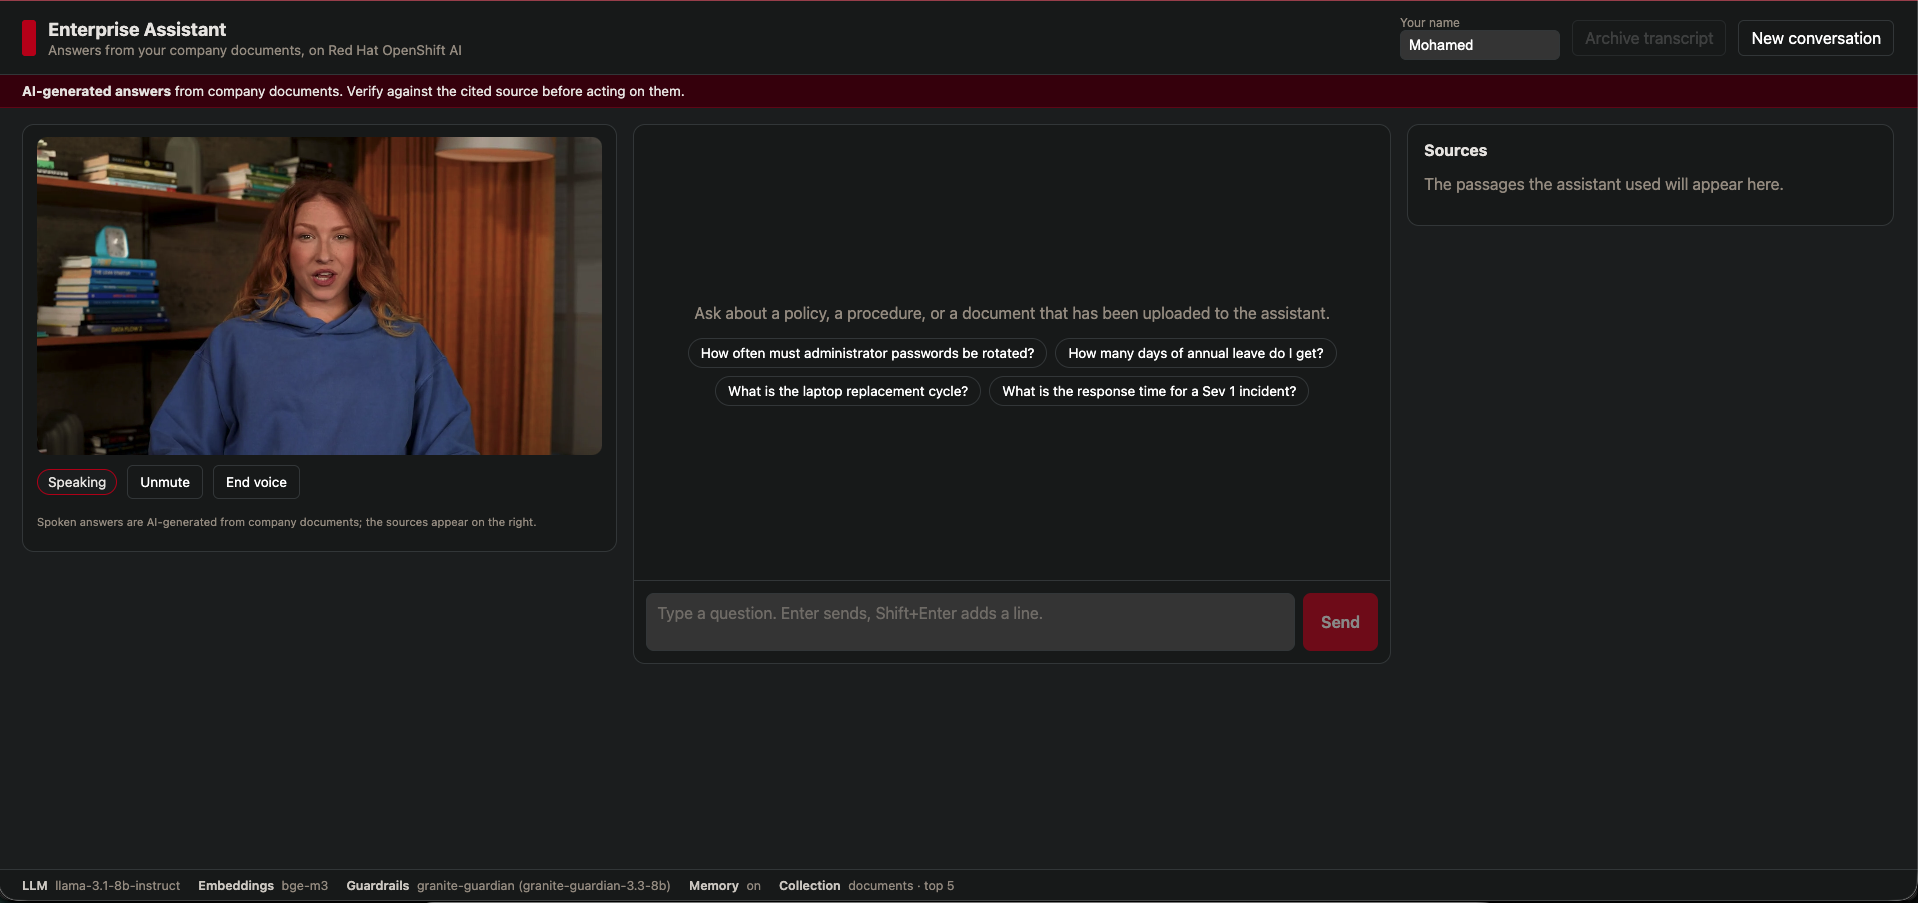
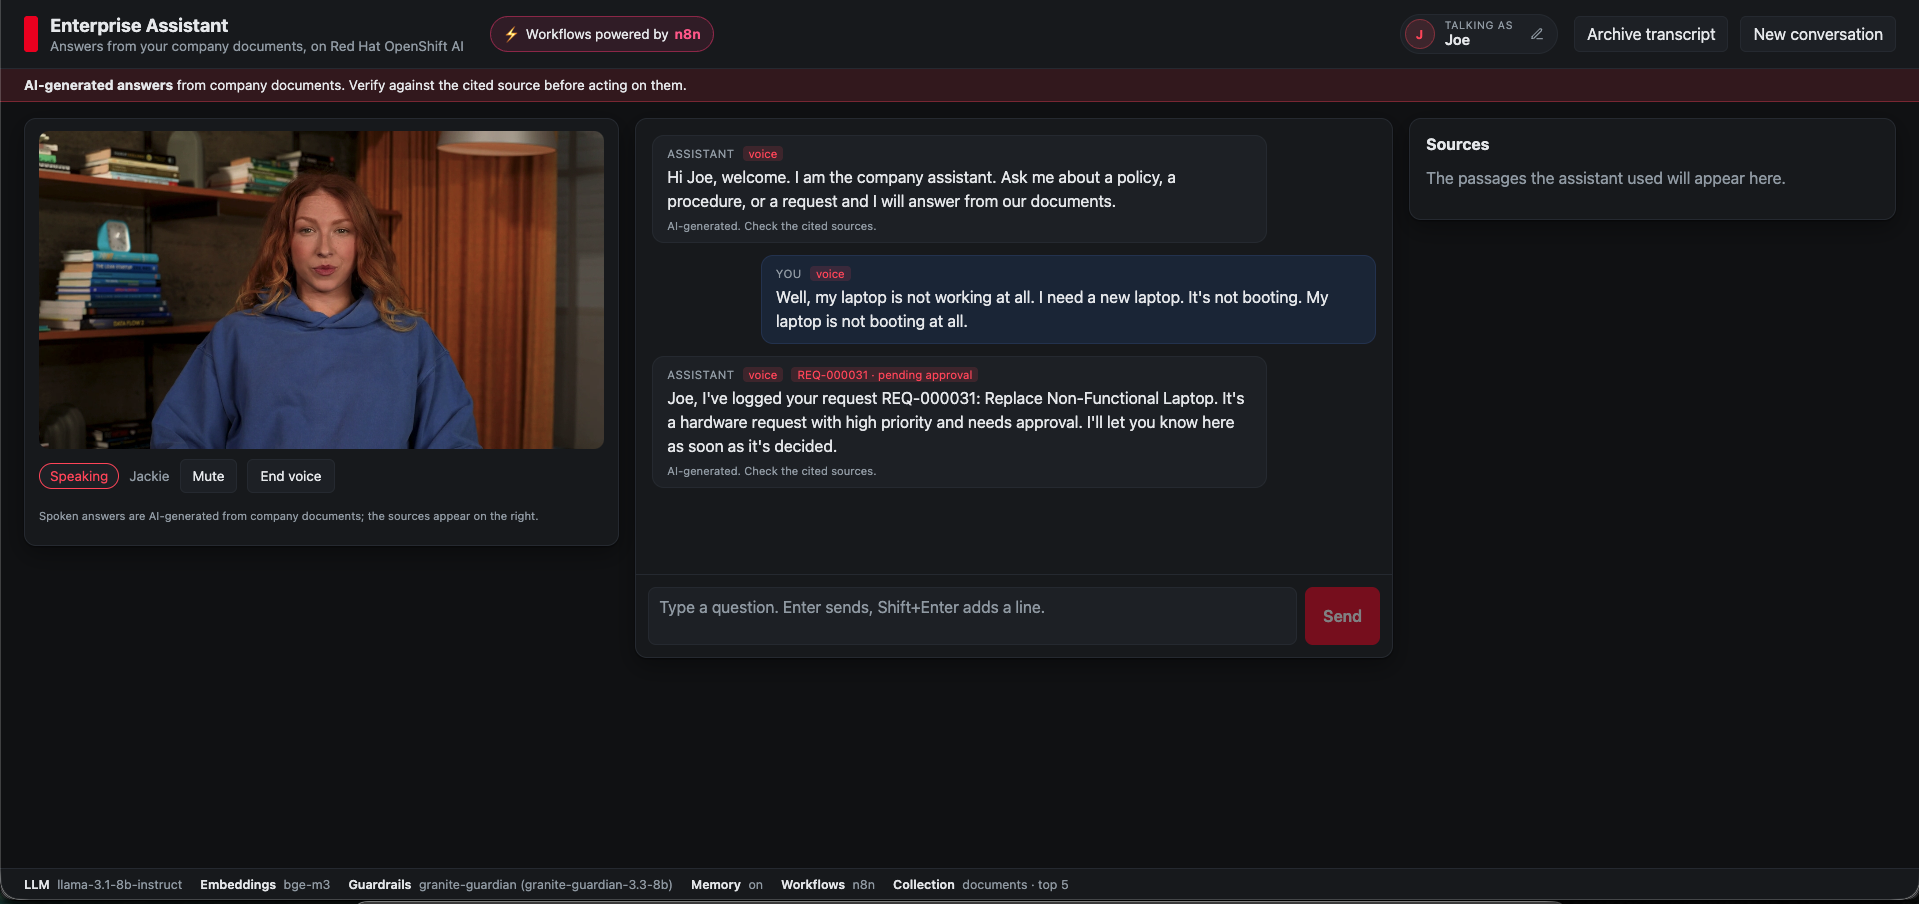
README: dark-theme screenshots of the voice session, the Slack card and the face picker
Ticket requester is the display name from the chat, so the approval card
shows the person's name rather than the identity slug.

diff --git a/services/rag-api/tests/test_requests_in_chat.py b/services/rag-api/tests/test_requests_in_chat.py
@@ -78,12 +78,14 @@ def test_chat_files_a_request(monkeypatch):
                 "session_id": "s1",
                 "user_id": "mohamed",
                 "mode": "voice",
+                "user_name": "Joe Bloggs",
             },
         ).json()
     assert body["ticket"]["ticket_ref"] == "REQ-000007"
     assert "REQ-000007" in body["answer"] and "needs approval" in body["answer"]
     assert body["citations"] == []
     assert filed[0].channel == "voice" and filed[0].session_id == "s1"
+    assert filed[0].requester == "Joe Bloggs"
 
 
 def test_chat_without_ticket_backend(monkeypatch):
@@ -196,7 +198,9 @@ def test_notify_ticket_is_noop_without_session():
 def test_request_reply_wording():
     assert "needs approval" in rag.request_reply(make_ticket("pending_approval"))
     assert "No approval is needed" in rag.request_reply(make_ticket("approved"))
-    assert rag.request_reply(make_ticket("approved"), "Joe Bloggs").startswith("Joe, I've logged your request")
+    assert rag.request_reply(make_ticket("approved"), "Joe Bloggs").startswith(
+        "Joe, I've logged your request"
+    )
 
 
 def test_archive_session_calls_n8n(monkeypatch):

diff --git a/services/rag-api/app/rag.py b/services/rag-api/app/rag.py
@@ -95,6 +95,7 @@ def file_request(request: ChatRequest, session_id: str, info: GuardrailInfo) -> 
                 text=request.message,
                 session_id=session_id,
                 user_id=request.user_id,
+                requester=request.user_name or None,  # the display name shows on the approval card
                 channel="voice" if request.mode == "voice" else "chat",
             )
         )

diff --git a/README.md b/README.md
@@ -51,9 +51,17 @@ After deployment you can:
 
 ### See it in action
 
-![The assistant answering by voice: the avatar on the left, the chat with suggested questions in the middle, the Sources panel on the right, and the served models in the status bar](docs/images/frontend-voice-avatar.png)
+![A voice session: the avatar speaking on the left; in the chat, the greeting by name, a request made by voice, and the assistant's confirmation carrying the ticket reference REQ-000031 pending approval](docs/images/frontend-voice-avatar.png)
 
-The avatar speaks the answers while the chat shows the same text with its citations; the status bar lists the models behind the session (Llama 3.1 8B, BGE-M3, Granite Guardian) served on OpenShift AI. A presenter script with timings and expected answers is in [docs/demo-script.md](docs/demo-script.md).
+The avatar greets the person by name, answers questions from the documents, and turns a spoken request into a ticket. The approval lands in Slack:
+
+![The Slack approval card posted by n8n for REQ-000031: title, description, category, priority, requester and channel, with Approve and Reject buttons](docs/images/slack-approval-card.png)
+
+Before a session, the person picks a face for the avatar; the voice follows the face:
+
+![The idle screen: face picker with four faces under the avatar frame, the welcome line "Hi Joe, welcome." with suggested questions in the chat, the empty Sources panel on the right, and the served models in the status bar](docs/images/frontend-welcome-face-picker.png)
+
+The chat shows every spoken answer with its citations, and the status bar lists the models behind the session (Llama 3.1 8B, BGE-M3, Granite Guardian) served on OpenShift AI. A presenter script with timings and expected answers is in [docs/demo-script.md](docs/demo-script.md).
 
 ### Architecture diagrams
 
